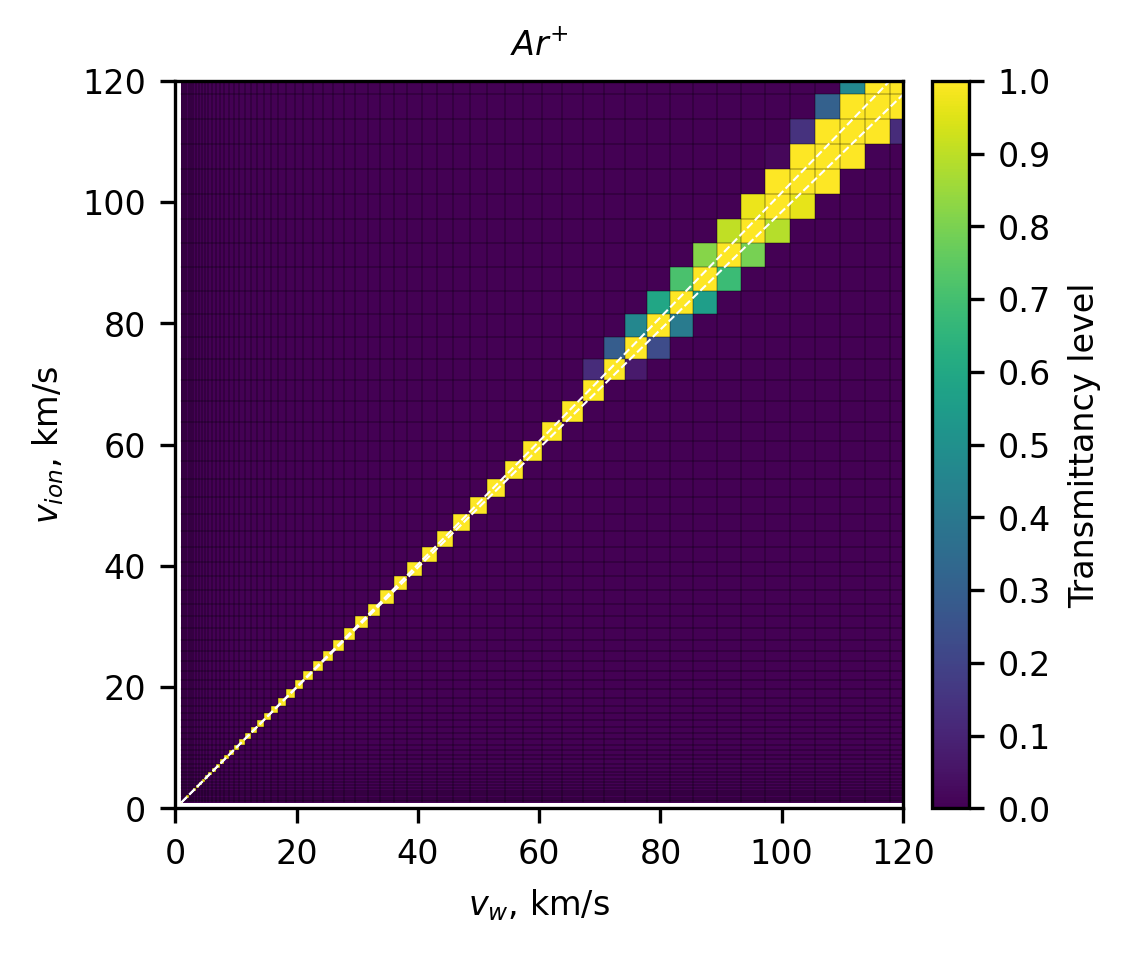
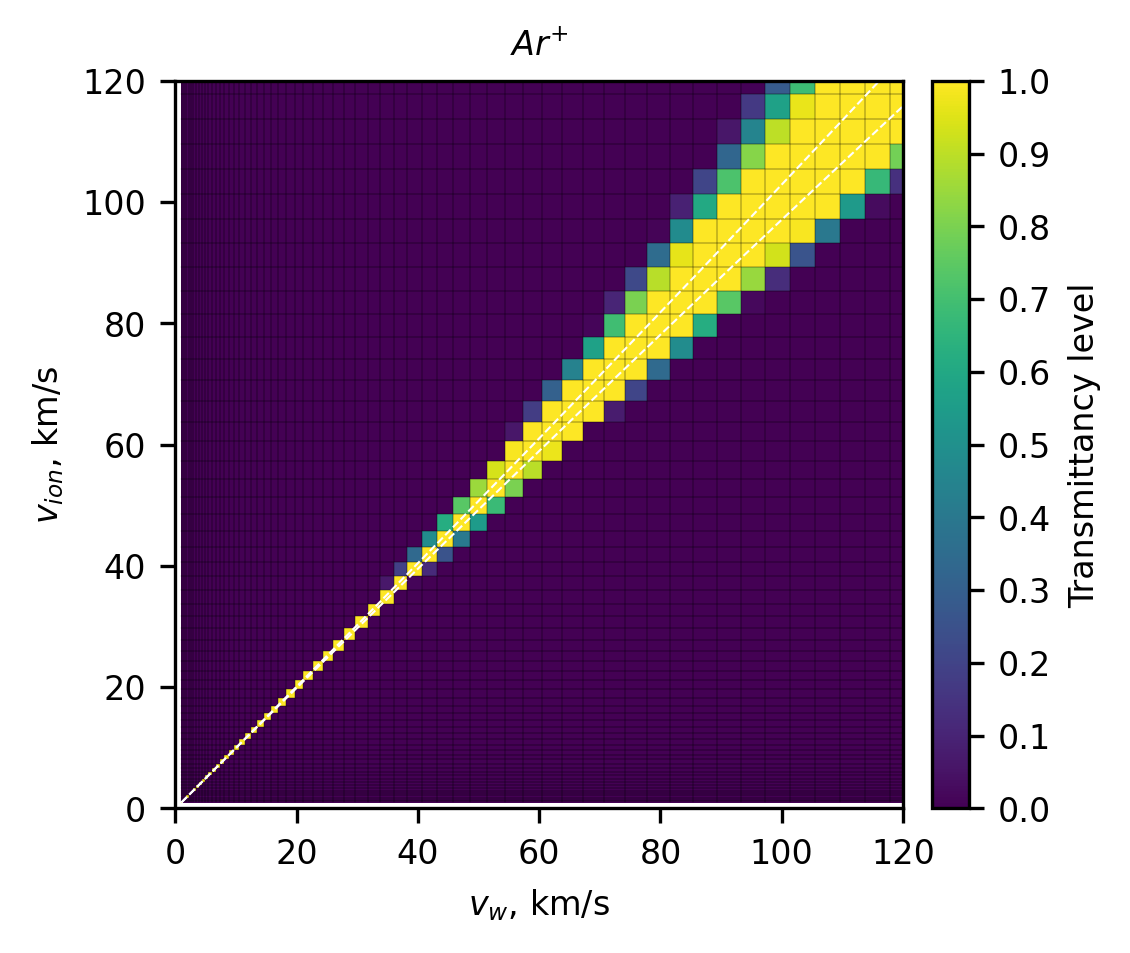
Update in ExB probe name

Changed region(s): [[0.3407, 0.0609, 0.8053, 0.639]]

diff --git a/_ExB_probe_info.py b/_ExB_probe_info.py
@@ -10,30 +10,32 @@ class Sample_ExB_probe:
     r_3 =   3.0e-3  # aperture 3 radius, m
     r_4 =   4.0e-3  # aperture 4 radius, m (= the collector radius)
     l_c =  50.0e-3  # collector length, m
-    l_f = 150.0e-3  # filter length, m
-    l_d = 100.0e-3  # drift tube length, m
+    l_f = 100.0e-3  # filter length, m
+    l_d =  50.0e-3  # drift tube length, m
     d_e =  10.0e-3  # electrode spacing, m
     
     # Size of electrodes when visualizing traectories
-    z_electrodes = np.array((0.0e-3, 50.0e-3, 50.0e-3,  0.0e-3))
-    y_electrodes = np.array((0.0e-3,  0.0e-3, 10.0e-3, 10.0e-3))+d_e/2
+    z_electrodes = np.array((0.0e-3, 40.0e-3, 40.0e-3,  0.0e-3))
+    y_electrodes = np.array((0.0e-3,  0.0e-3,  5.0e-3,  5.0e-3))+d_e/2
     y_electrodes = np.concatenate((y_electrodes, np.flip(y_electrodes)))
     z_electrodes = np.concatenate((z_electrodes,-np.flip(z_electrodes)))
 
     # B-field and E-field parameters
-    Bx0_measured  = -0.20 # Tesla, Bx at (x,y,z) = (0,0,0) measured on YYYY/MM/DD
-    Bx0_simulated =  0.15 # Tesla, Bx at (x,y,z) = (0,0,0) simulated
-    Bxpra         =  0.19 # Practical B-field strength for ExB probe, Tesla. See 
-    V_electrodes = 10 # potential difference between the electrodes used in E-field simulation
+    # You need to correct the magnitude of simulated B-field based on your measurement.
+    Bx0_measured  = -0.20 # Actual measured B-field strength, Tesla
+    Bx0_simulated =  0.15 # Simulated B-field strength, Tesla
+    # Update this value by running _transmittancy_calc.field._Bxpra() for your ExB probe design. 
+    Bxpra         =  0.19 # Practical B-field strength for ExB probe, Tesla. For more information, see Toyofumi Yamauchi and Joshua L. Rovey. "Uncertainty and Data Analysis of ExB Probe including Field Non-Uniformity and Transmittancy," AIAA 2024-0688. AIAA SCITECH 2024 Forum. January 2024.
+    # Instead of running multiple E-field simulations, you can use one simulated E-field by scaling it to desired V_electrodes.
+    V_electrodes  = 10 # potential difference between the electrodes used in E-field simulation
     
     # File information for numerical approach
-    directory = "../Sample/"
-    filename_B   = "Sample_ExB_probe_B.txt"
-    filename_E   = "Sample_ExB_probe_E.txt"
-    filename_CAD = "Sample_ExB_probe_Body.stl"
-    filename_CAD_collector = "Sample_ExB_probe_Collector.stl"
-    source_units = 'inch'
-
+    directory              = "../Sample/"                     # directory of these files. The calculated transmittancy matrix will be saved in this directory.
+    filename_B             = "Sample_ExB_probe_B.txt"         # B-field data file, which is used for numerical approach.
+    filename_E             = "Sample_ExB_probe_E.txt"         # E-field data file, which is used for numerical approach.
+    filename_CAD           = "Sample_ExB_probe_Body.stl"      # CAD file for the whole ExB probe, which is used for numerical approach to determine if the ion hits the probe body or not.
+    filename_CAD_collector = "Sample_ExB_probe_Collector.stl" # CAD file for the collector, which is used for numerical approach to determine if the ion hits the collector or not.
+    source_units           = 'inch' # the unit of the coordinates in CAD files. "mm", "cm", and "inch" need to be converted to "m".
 
 # test.py
 if __name__ == "__main__":

diff --git a/Transmittancy/Numerical_approach.py b/Transmittancy/Numerical_approach.py
@@ -21,7 +21,7 @@ print('Chosen ion: {}'.format(ion_name))
 import _ExB_probe_info as _ExB_probe_info
 classes = [name for name, obj in vars(_ExB_probe_info).items()
            if isinstance(obj, type)]
-myExBprobe = _ExB_probe_info.NRL_ExB_probe_CurvedV2
+myExBprobe = _ExB_probe_info.Sample_ExB_probe
 print('Chosen ExB probe: {}'.format(myExBprobe))
 
 import _transmittancy_calc as _transmittancy_calc
